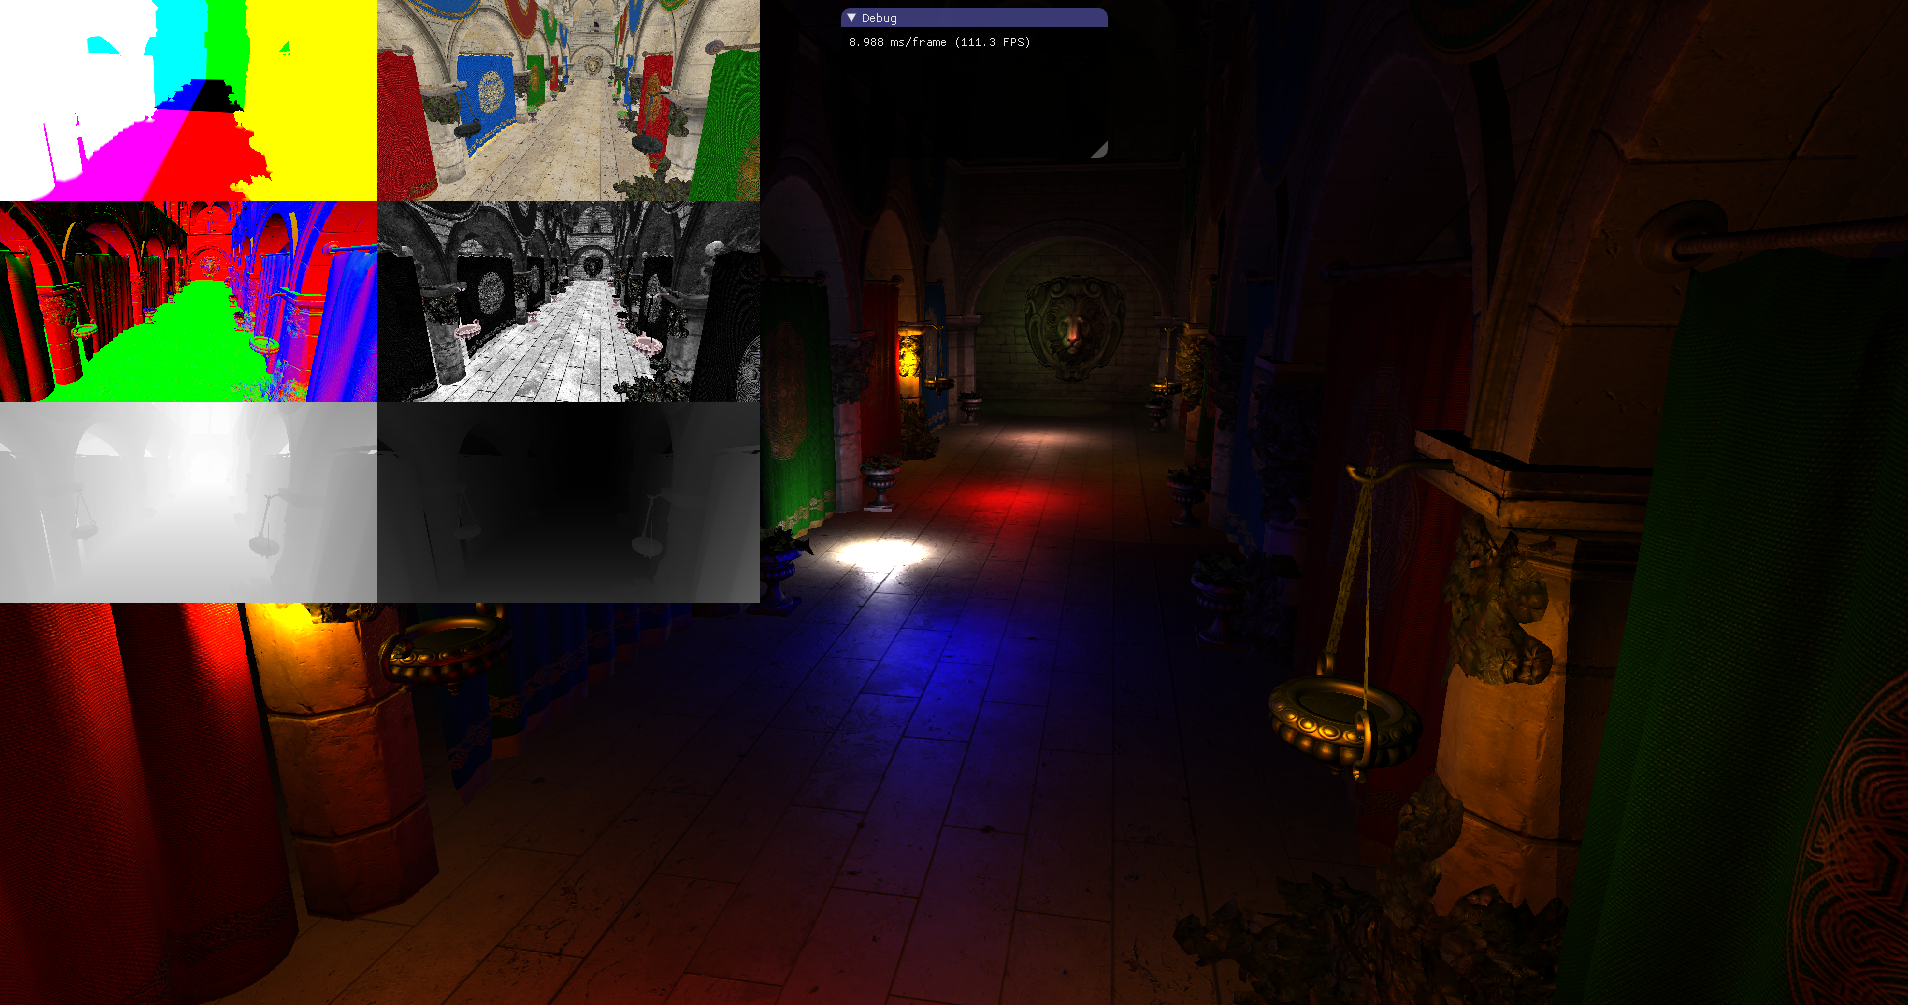
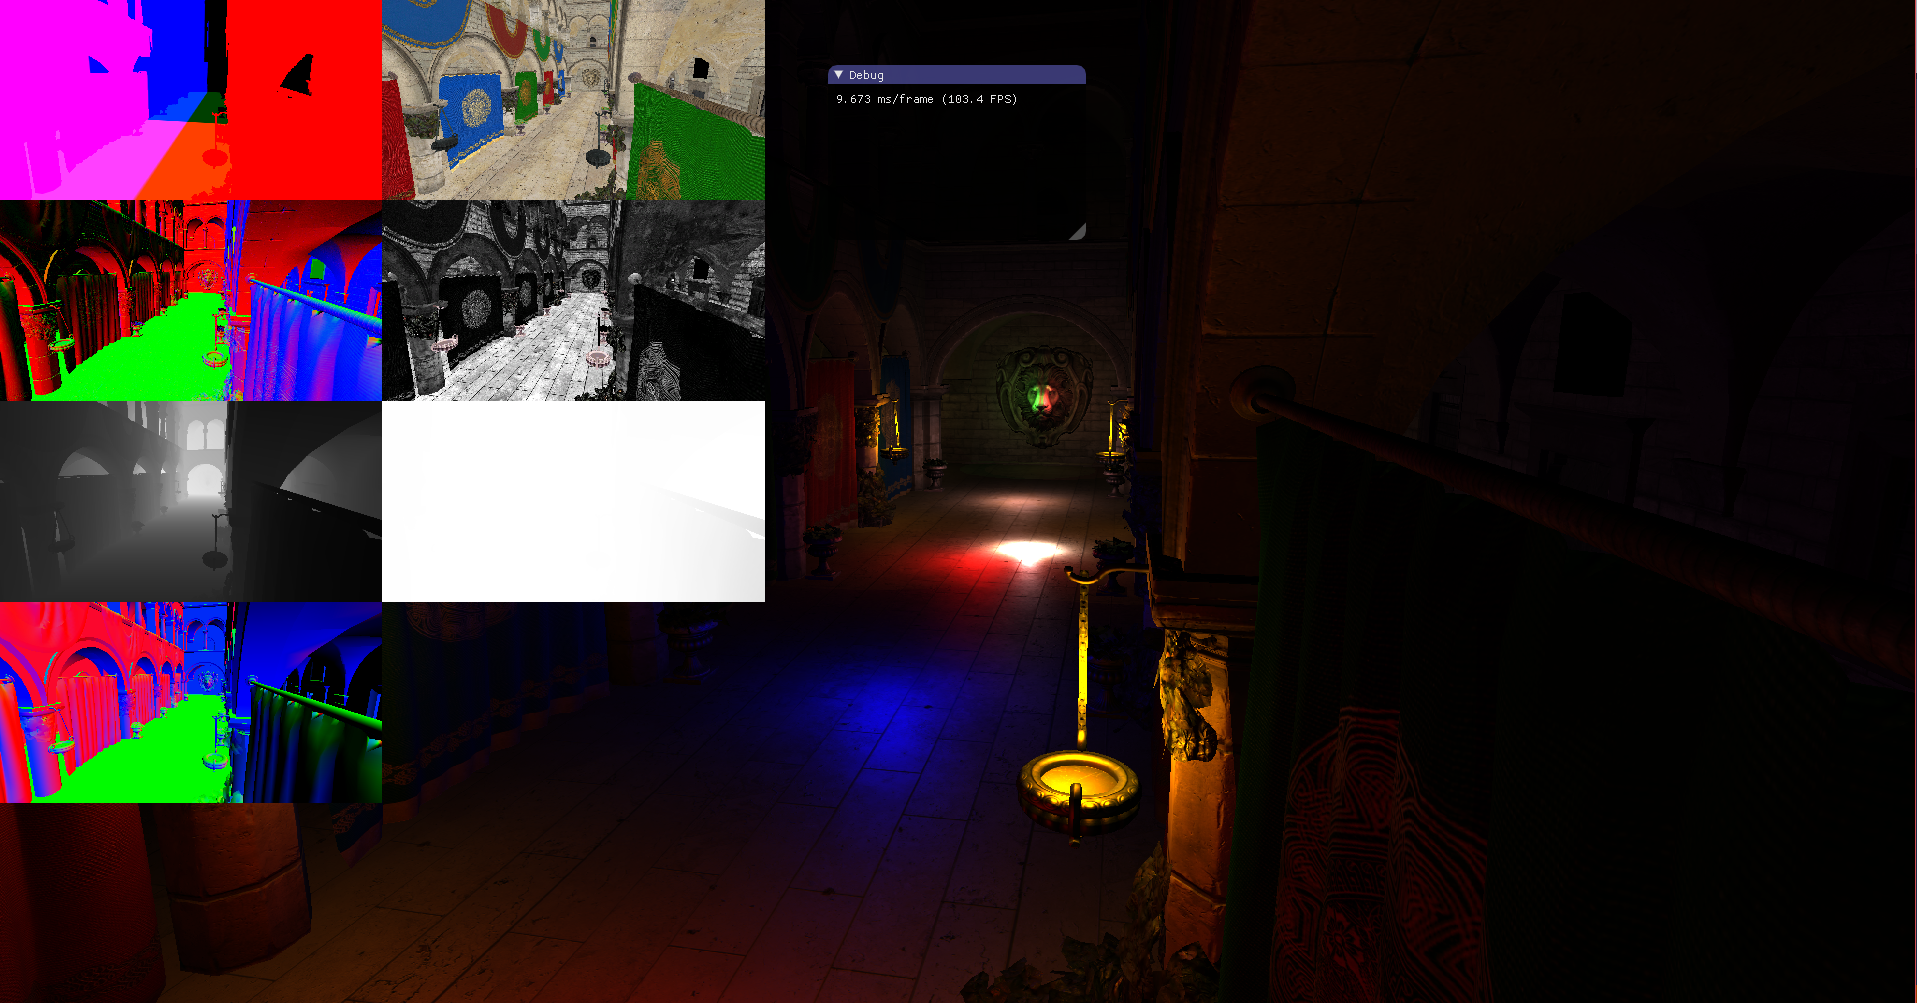
Fixes from very long time ago.
These fixes is one month old. Could not push anything due to nasty
internet problem... Daaamnn you.....

diff --git a/Projects/SSAO/Main.cpp b/Projects/SSAO/Main.cpp
@@ -313,10 +313,11 @@ private:
 	}quadMesh;
 
 	//plane and quad
-	VkPipeline quadPipeline;
-	VkPipelineLayout quadPipelineLayout;
-	VkDescriptorSet  quadDescriptorSet;
-	VkDescriptorSet  defferedModelDescriptorSet;
+	VkPipeline				 quadPipeline;
+	VkPipelineLayout		 quadPipelineLayout;
+	VkDescriptorSetLayout	 quadDescriptorSetLayout;
+	VkDescriptorSet			 quadDescriptorSet;
+	VkDescriptorSet			 defferedModelDescriptorSet;
 
 	//SSAO
 	VkPipeline ssaoPipeline;
@@ -474,6 +475,7 @@ Renderer::~Renderer()
 	vkDestroyPipelineLayout(m_pWRenderer->m_SwapChain.device, ssaoPipelineLayout, nullptr);
 
 	//Destroy layout
+	vkDestroyDescriptorSetLayout(m_pWRenderer->m_SwapChain.device, quadDescriptorSetLayout, nullptr);
 	vkDestroyDescriptorSetLayout(m_pWRenderer->m_SwapChain.device, descriptorSetLayout, nullptr);
 	vkDestroyDescriptorSetLayout(m_pWRenderer->m_SwapChain.device, ssaoDescriptorSetLayout, nullptr);
 
@@ -485,8 +487,8 @@ Renderer::~Renderer()
 	vkDestroySemaphore(m_pWRenderer->m_SwapChain.device, Semaphores.defferedSemaphore, nullptr);
 
 	//ssao
-//	vkFreeCommandBuffers(m_pWRenderer->m_SwapChain.device, m_pWRenderer->m_CmdPool, 1, &ssaoCmdBuffer);
-//	vkDestroySemaphore(m_pWRenderer->m_SwapChain.device, Semaphores.ssaoSemaphore, nullptr);
+	vkFreeCommandBuffers(m_pWRenderer->m_SwapChain.device, m_pWRenderer->m_CmdPool, 1, &ssaoCmdBuffer);
+	vkDestroySemaphore(m_pWRenderer->m_SwapChain.device, Semaphores.ssaoSemaphore, nullptr);
 
 	//Release semaphores
 	vkDestroySemaphore(m_pWRenderer->m_SwapChain.device, Semaphores.presentComplete, nullptr);
@@ -864,7 +866,7 @@ void Renderer::LoadGUI()
 
 void Renderer::GenerateQuad()
 {
-#define NUM_QUADS 6
+#define NUM_QUADS 7
 	std::vector<drawVert> vertData;
 	vertData.reserve(NUM_QUADS * 4);
 
@@ -1711,7 +1713,8 @@ void Renderer::PrepareVertices(bool useStagingBuffers)
 
 
 	// Debug Descriptor
-	VK_CHECK_RESULT(vkAllocateDescriptorSets(m_pWRenderer->m_SwapChain.device, &allocInfo, &quadDescriptorSet));
+	VkDescriptorSetAllocateInfo quadDebugallocInfo = VkTools::Initializer::DescriptorSetAllocateInfo(m_pWRenderer->m_DescriptorPool, &quadDescriptorSetLayout, 1);
+	VK_CHECK_RESULT(vkAllocateDescriptorSets(m_pWRenderer->m_SwapChain.device, &quadDebugallocInfo, &quadDescriptorSet));
 	std::vector<VkWriteDescriptorSet> quadWriteDescriptorSets =
 	{
 		// Binding 0 : Vertex shader uniform buffer
@@ -1727,7 +1730,7 @@ void Renderer::PrepareVertices(bool useStagingBuffers)
 		VkTools::Initializer::WriteDescriptorSet(quadDescriptorSet,VK_DESCRIPTOR_TYPE_COMBINED_IMAGE_SAMPLER,3, &ssaoImage),
 
 		//Normal depth
-		//VkTools::Initializer::WriteDescriptorSet(quadDescriptorSet,VK_DESCRIPTOR_TYPE_COMBINED_IMAGE_SAMPLER, 4, &modelNormal)
+		VkTools::Initializer::WriteDescriptorSet(quadDescriptorSet,VK_DESCRIPTOR_TYPE_COMBINED_IMAGE_SAMPLER, 4, &modelNormal)
 
 	};
 	vkUpdateDescriptorSets(m_pWRenderer->m_SwapChain.device, quadWriteDescriptorSets.size(), quadWriteDescriptorSets.data(), 0, NULL);
@@ -2081,14 +2084,14 @@ void Renderer::SetupDescriptorSetLayout()
 			VkTools::Initializer::DescriptorSetLayoutBinding(VK_DESCRIPTOR_TYPE_COMBINED_IMAGE_SAMPLER,VK_SHADER_STAGE_FRAGMENT_BIT,3),
 
 			// Binding 4 : Fragment shader uniform buffer
-			VkTools::Initializer::DescriptorSetLayoutBinding(VK_DESCRIPTOR_TYPE_UNIFORM_BUFFER,VK_SHADER_STAGE_FRAGMENT_BIT,4),
+			VkTools::Initializer::DescriptorSetLayoutBinding(VK_DESCRIPTOR_TYPE_COMBINED_IMAGE_SAMPLER,VK_SHADER_STAGE_FRAGMENT_BIT,4),
 		};
 
 		VkDescriptorSetLayoutCreateInfo descriptorLayout = VkTools::Initializer::DescriptorSetLayoutCreateInfo(setLayoutBindings.data(), setLayoutBindings.size());
-		VK_CHECK_RESULT(vkCreateDescriptorSetLayout(m_pWRenderer->m_SwapChain.device, &descriptorLayout, nullptr, &ssaoDescriptorSetLayout));
+		VK_CHECK_RESULT(vkCreateDescriptorSetLayout(m_pWRenderer->m_SwapChain.device, &descriptorLayout, nullptr, &quadDescriptorSetLayout));
 
-		VkPipelineLayoutCreateInfo pPipelineLayoutCreateInfo = VkTools::Initializer::PipelineLayoutCreateInfo(&ssaoDescriptorSetLayout, 1);
-		VK_CHECK_RESULT(vkCreatePipelineLayout(m_pWRenderer->m_SwapChain.device, &pPipelineLayoutCreateInfo, nullptr, &ssaoPipelineLayout));
+		VkPipelineLayoutCreateInfo pPipelineLayoutCreateInfo = VkTools::Initializer::PipelineLayoutCreateInfo(&quadDescriptorSetLayout, 1);
+		VK_CHECK_RESULT(vkCreatePipelineLayout(m_pWRenderer->m_SwapChain.device, &pPipelineLayoutCreateInfo, nullptr, &quadPipelineLayout));
 	}
 
 	//SSAO
@@ -2178,6 +2181,7 @@ void Renderer::StartFrame()
 		submitInfo.pSignalSemaphores = &Semaphores.defferedSemaphore;
 		VK_CHECK_RESULT(vkQueueSubmit(m_pWRenderer->m_Queue, 1, &submitInfo, VK_NULL_HANDLE));
 
+		
 		//Start SSAO Pass
 		submitInfo.pWaitSemaphores = &Semaphores.defferedSemaphore;
 		submitInfo.pSignalSemaphores = &Semaphores.ssaoSemaphore;
@@ -2186,7 +2190,7 @@ void Renderer::StartFrame()
 
 		//Start Main Pass (Combines all images and does calculation for all lights)
 		submitInfo.pWaitSemaphores = &Semaphores.ssaoSemaphore;
-//		submitInfo.pWaitSemaphores = &Semaphores.defferedSemaphore;
+		//submitInfo.pWaitSemaphores = &Semaphores.defferedSemaphore;
 		submitInfo.pSignalSemaphores = &Semaphores.renderComplete;
 		submitInfo.pCommandBuffers = &m_pWRenderer->m_DrawCmdBuffers[m_pWRenderer->m_currentBuffer];
 		VK_CHECK_RESULT(vkQueueSubmit(m_pWRenderer->m_Queue, 1, &submitInfo, VK_NULL_HANDLE));
@@ -2201,6 +2205,7 @@ void Renderer::StartFrame()
 		submitInfo.pSignalSemaphores = &Semaphores.textOverlayComplete;
 		submitInfo.pCommandBuffers = &cmdGui;
 		VK_CHECK_RESULT(vkQueueSubmit(m_pWRenderer->m_Queue, 1, &submitInfo, VK_NULL_HANDLE));
+		
 	}
 
 	{

diff --git a/Renderer/MeshLoader/Model_assimp.cpp b/Renderer/MeshLoader/Model_assimp.cpp
@@ -146,6 +146,7 @@ void RenderModelAssimp::Clear(VkDevice device)
 			else
 			{
 				//No textures were loaded but material was created so we have to destroy it.
+//				mesh.material->Clear(device);
 				SAFE_DELETE_ARRAY(mesh.material);
 			}
 		}
